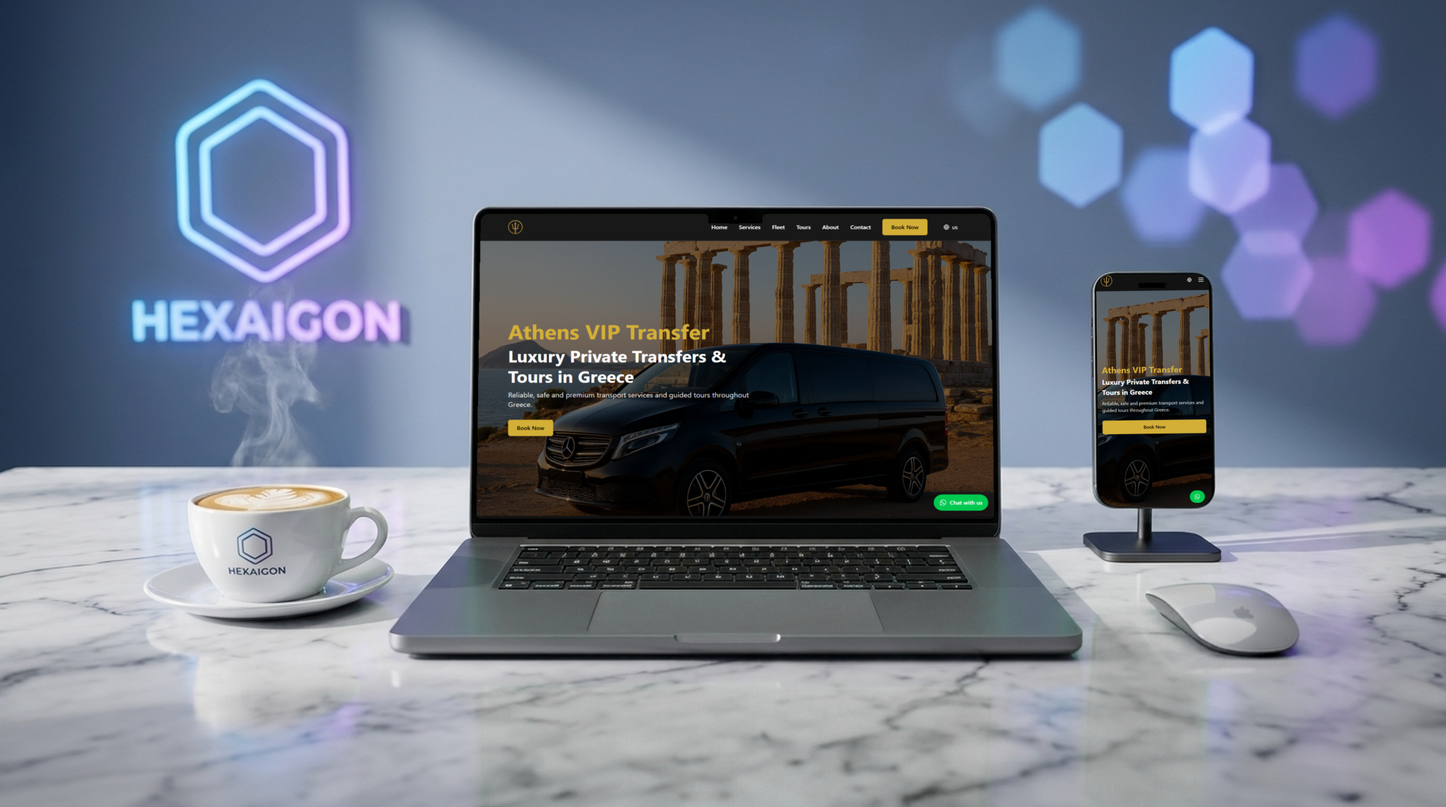
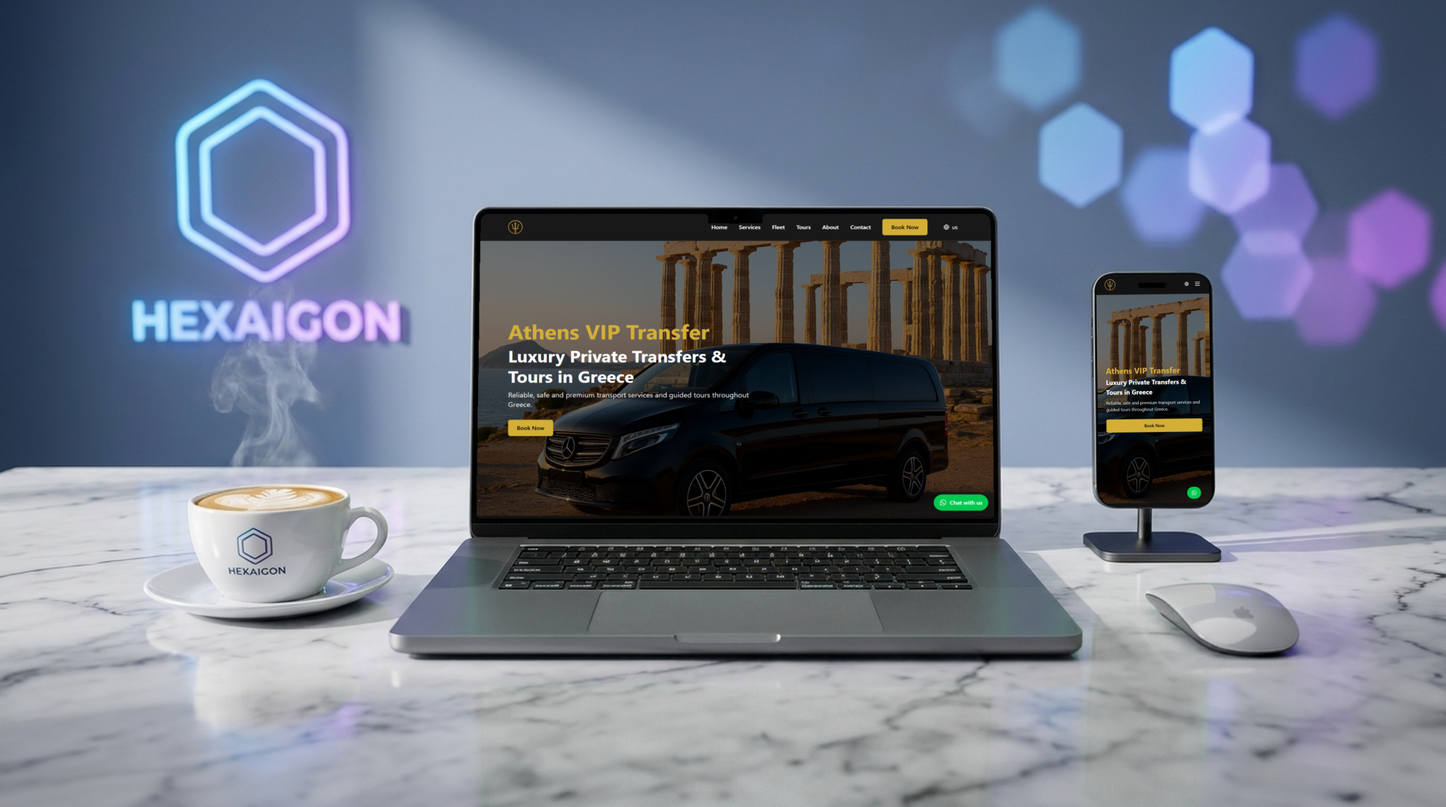
Fix phone screen compositing: safe-area padding inside rounded corners
- Phone screenshots now composite inside the rounded green screen (mask
  alpha) with replicate-padded edges (PHONE_EDGE_PAD_FRAC=0.04), so headers
  and footers are never clipped by corner rounding and content never
  overflows the bezel; Dynamic Island stays preserved
- Shared pad_replicate/screen_alpha between composite.py and
  composite_video.py (removed solid-rect approach)
- Regenerate all 21 light 16:9 mockups + add 21 beach 1:1 mockups
  (scene-beach-square, -mockup-beach suffix) for social/marketing use

Changed region(s): [[0.75, 0.3438, 0.8438, 0.625]]

diff --git a/scripts/mockup/composite.py b/scripts/mockup/composite.py
@@ -34,6 +34,8 @@ MASK_DILATE_PX = 5
 ERODE_PX = 5
 # The warped screenshot must extend past the dilated alpha so it never samples black.
 QUAD_PAD = 14
+# Safe-area inset for the phone screenshot (fraction of its width, per side).
+PHONE_EDGE_PAD_FRAC = 0.04
 # Scenes are upscaled to this width so screenshots keep enough pixels to stay
 # legible when zoomed (background is soft/bokeh, so the upscale is invisible).
 TARGET_SCENE_WIDTH = 2752
@@ -100,6 +102,8 @@ def screen_alpha(mask, quad):
     Non-green pixels inside the quad (notch, Dynamic Island, corner bezel)
     stay at alpha 0 and keep the original scene — that's the whole trick.
     The quad region clips away nearby reflection greens outside the screen.
+    Used for the LAPTOP: preserves the MacBook notch, and its corner rounding
+    is too slight to cut UI.
     """
     region = np.zeros_like(mask)
     cv2.fillConvexPoly(region, expand_quad(quad, 2).astype(np.int32), 255)
@@ -109,6 +113,19 @@ def screen_alpha(mask, quad):
     )
     alpha = cv2.dilate(alpha, kernel)
     return cv2.GaussianBlur(alpha, (3, 3), 0)  # anti-aliased edge
+
+
+def pad_replicate(img, frac):
+    """Pad an image on all sides by `frac` of its width, replicating edge pixels.
+
+    Used on the PHONE screenshot before warping: the UI moves inward so the
+    screen's rounded corners never clip real content (header text, icons),
+    while the replicated edge pixels fill the corner areas with the header's
+    own background color — exactly how content sits inside a real phone's
+    safe area. Content shrinks by only ~7%, visually negligible.
+    """
+    pad = max(2, int(round(img.shape[1] * frac)))
+    return cv2.copyMakeBorder(img, pad, pad, pad, pad, cv2.BORDER_REPLICATE)
 
 
 def warp_onto(scene, screenshot, quad, alpha):
@@ -172,7 +189,9 @@ def composite(scene_path, desktop_path, mobile_path, out_path):
     alpha_phone = screen_alpha(mask, phone_quad)
 
     out = warp_onto(scene, desktop, laptop_quad, alpha_laptop)
-    out = warp_onto(out, mobile, phone_quad, alpha_phone)
+    # Phone: content wraps inside the rounded screen; the safe-area padding
+    # keeps the header/footer clear of the corner rounding.
+    out = warp_onto(out, pad_replicate(mobile, PHONE_EDGE_PAD_FRAC), phone_quad, alpha_phone)
 
     screens = cv2.bitwise_or(
         (alpha_laptop >= 128).astype(np.uint8) * 255,

diff --git a/scripts/mockup/composite_video.py b/scripts/mockup/composite_video.py
@@ -27,30 +27,17 @@ import numpy as np
 from imageio_ffmpeg import get_ffmpeg_exe
 
 from composite import (
+    PHONE_EDGE_PAD_FRAC,
     QUAD_PAD,
     TARGET_SCENE_WIDTH,
     despill,
     expand_quad,
     find_green_quads,
     green_mask,
+    pad_replicate,
     screen_alpha,
     warp_onto,
 )
-
-
-def solid_screen_alpha(mask, quad):
-    """Full-RECTANGLE alpha for the phone: paint the whole screen, corner to corner.
-
-    screen_alpha() keeps non-green pixels transparent (notch, Dynamic Island) AND
-    the green's rounded corners curve inward — so UI in the extreme corners (the
-    site's top-right hamburger menu) and along the top (header) gets chopped. Here
-    we simply fill the entire screen quad, so every pixel of the screenshot shows,
-    including the notch strip and all four corners. Corners read slightly squared,
-    but nothing in the UI is ever cut off.
-    """
-    solid = np.zeros_like(mask)
-    cv2.fillConvexPoly(solid, expand_quad(quad, 2).astype(np.int32), 255)
-    return cv2.GaussianBlur(solid, (3, 3), 0)  # anti-aliased edge
 
 
 def quad_dst_size(dst):
@@ -104,12 +91,12 @@ def main():
     mask = green_mask(scene)
     laptop_quad, phone_quad = find_green_quads(scene)  # largest first
     alpha_laptop = screen_alpha(mask, laptop_quad)
-    # Phone: fill over the notch/Dynamic Island so the site header isn't chopped.
-    alpha_phone = solid_screen_alpha(mask, phone_quad)
+    alpha_phone = screen_alpha(mask, phone_quad)
 
     # Static base: phone image + despill baked in once. The laptop's green stays
     # under its (protected) alpha and is overwritten by the video every frame.
-    base = warp_onto(scene, phone_img, phone_quad, alpha_phone)
+    # Safe-area padding keeps the phone UI clear of the rounded corners.
+    base = warp_onto(scene, pad_replicate(phone_img, PHONE_EDGE_PAD_FRAC), phone_quad, alpha_phone)
     screens = cv2.bitwise_or(
         (alpha_laptop >= 128).astype(np.uint8) * 255,
         (alpha_phone >= 128).astype(np.uint8) * 255,
